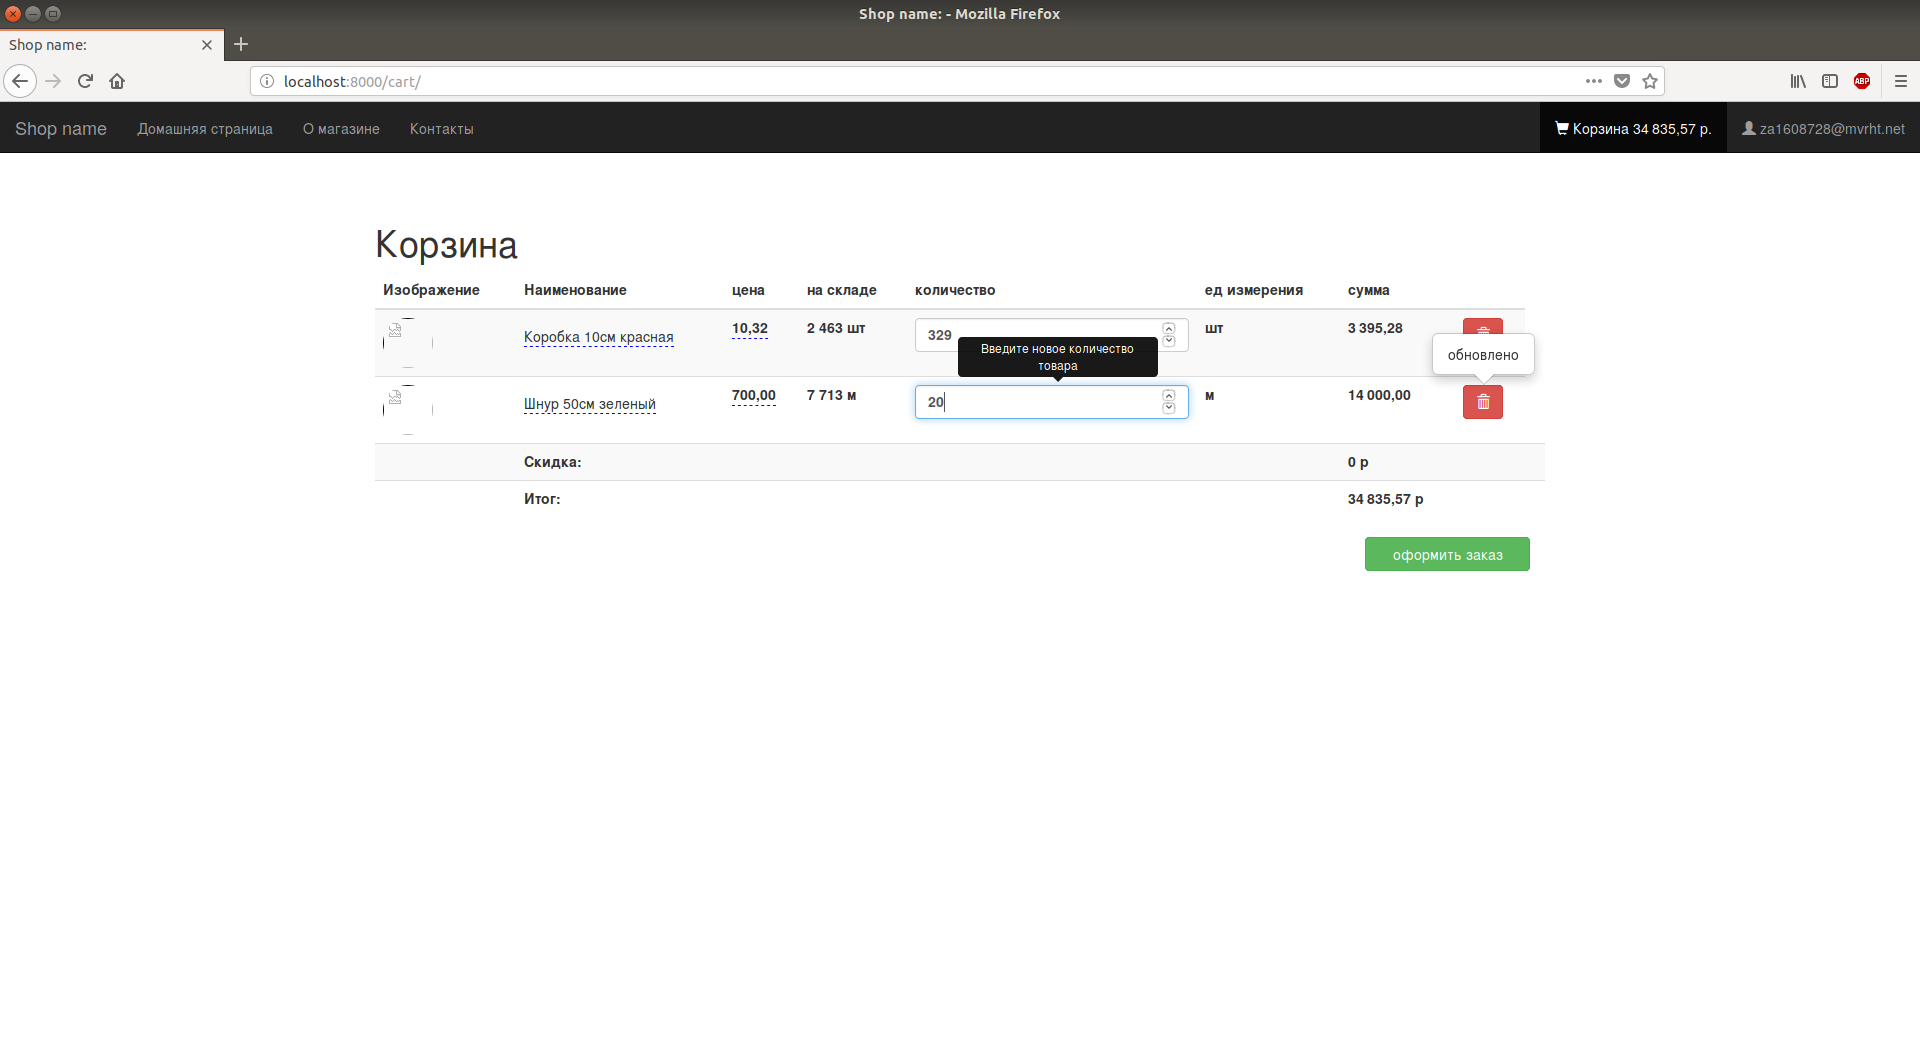
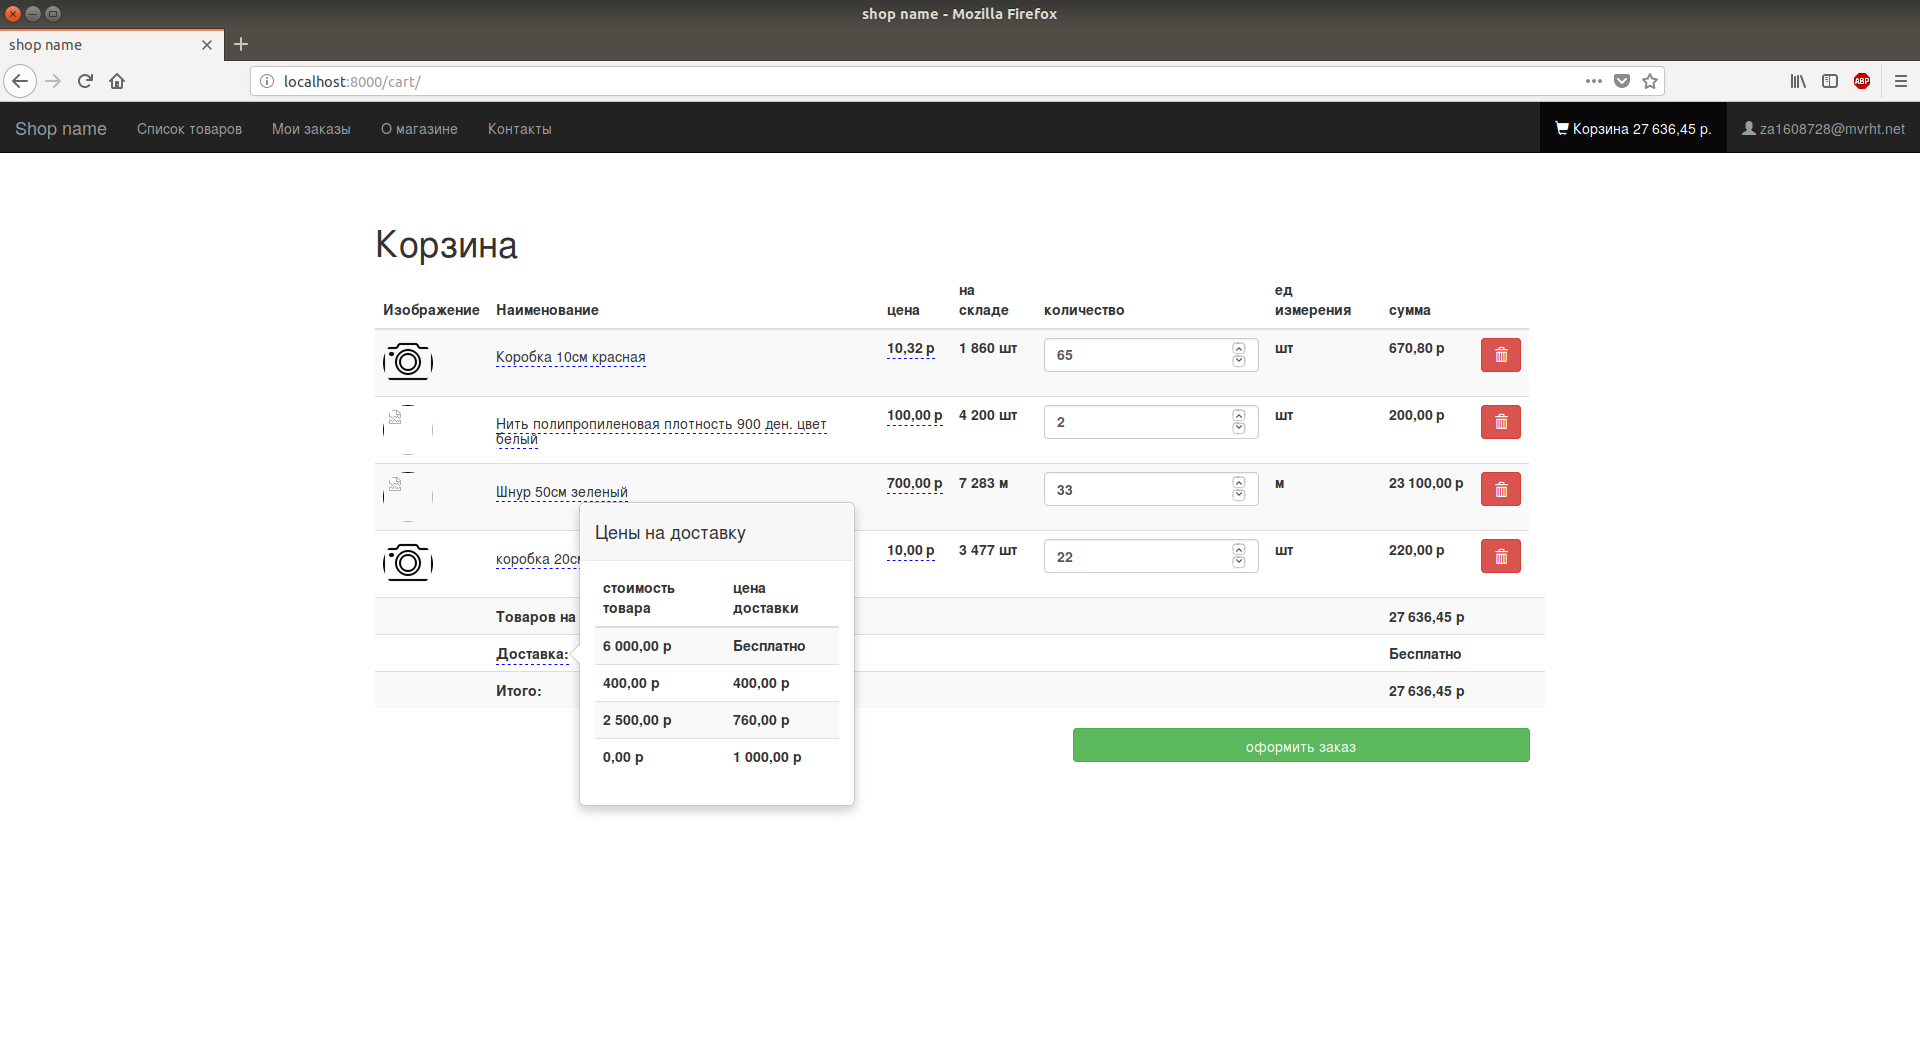
updated screenshots

diff --git a/ishop/settings.py b/ishop/settings.py
@@ -122,7 +122,7 @@ AUTHENTICATION_BACKENDS = [
 # Internationalization
 # https://docs.djangoproject.com/en/2.0/topics/i18n/
 
-LANGUAGE_CODE = 'ru-ru'
+LANGUAGE_CODE = 'ru'
 
 TIME_ZONE = 'Europe/Moscow'
 
